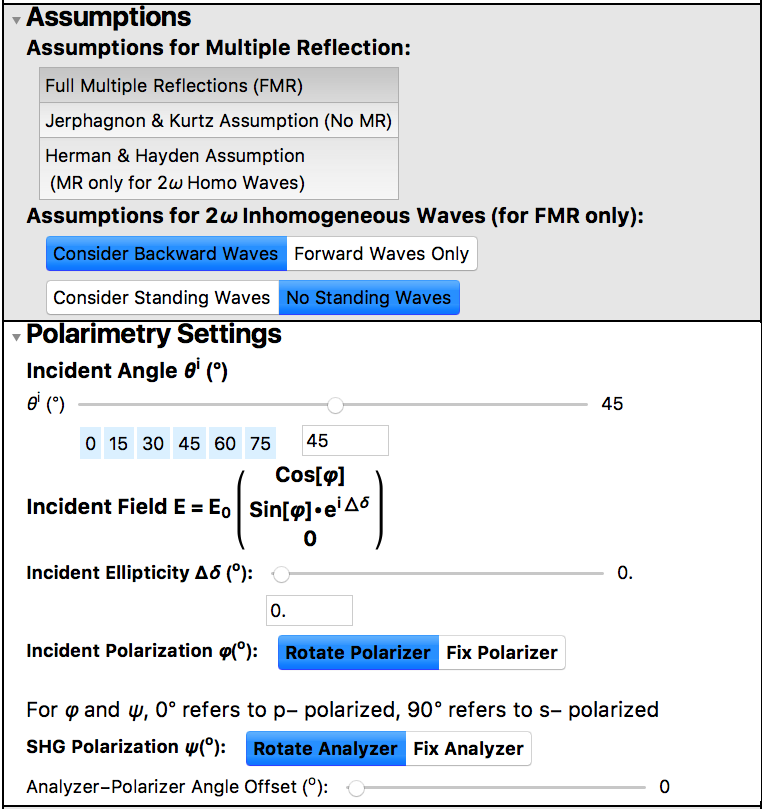
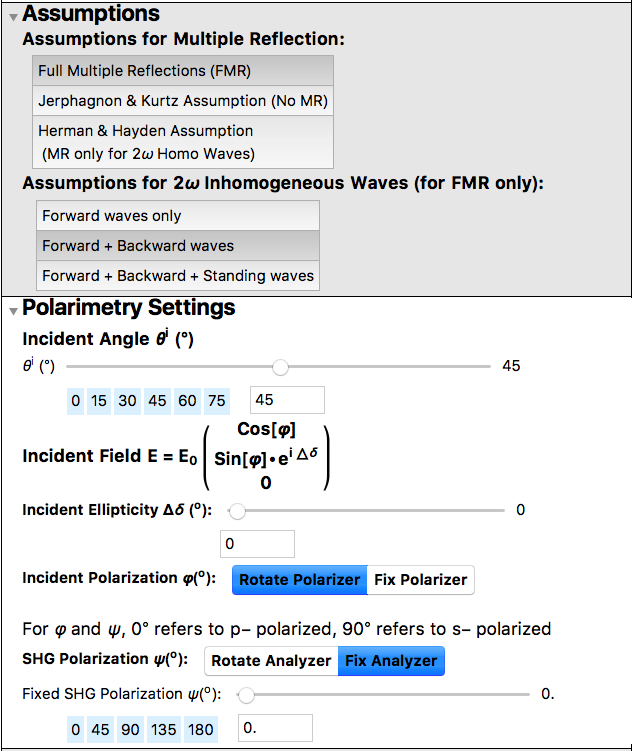
Based on v1.46

Changed region(s): [[0.0, 0.0, 1.0, 1.0], [0.8079, 0.6738, 0.8378, 0.735]]

diff --git a/docs/examples.md b/docs/examples.md
@@ -1,4 +1,4 @@
-Maker fringes
+## Maker fringes
 
 The following tutorial demonstrates the calculation of Maker fringes for a multilayer composed of Z-cut quartz with a gold layer deposited at the back of the slab. This example has been presented in the manuscript and highlights the importance of multiple reflections. 
 
@@ -43,7 +43,8 @@ We start by discussing the experimental details before proceeding to simulate th
 
     ![makerpattern](./img/makerpattern.png)
 
-One can now try changing the thickness of the slab by 1 $\mu$m to see the effect of the slab thickness on the Maker fringes pattern. To do this, go back to the `Set Material Properties` and click on `1` to modify the quartz layer. Change the thickness and click `Update`. Now click on `SHG Polarimetry` and click `Update` again to run the Maker fringes simulation for the new thickness.
+-  Click `Copy` to copy the underlying list to the clipboard. In a *Mathematica®* notebook, paste this and give this a name. This list can now be plotted using `ListPlot[]`.
+-  One can also try changing the thickness of the slab by $\pm$1 $\mu$m to see the effect of the slab thickness on the Maker fringes pattern. To do this, go back to the `Set Material Properties` and click on `1` to modify the quartz layer. Change the thickness and click `Update`. Now click on `SHG Polarimetry` and click `Update` again to run the Maker fringes simulation for the new thickness.
 
 ## SHG Polarimetry
 
@@ -93,7 +94,8 @@ The figure below the multilayer shows the relative orientation of the $Z_1 Z_2 Z
 - In the crystal orientation sub-panel, click `Use Crystal Physics Direction` and enter the following: $Z_1 = (0,0,1)$, $Z_2=(0,1,0)$ and $Z_3=(-1,0,0)$. 
 - Now click `Update` and go to `SHG Polarimetry` and click `Update` again to generate the polar plots under the same polarimetry settings. One observes that the SHG plots have changed.
 
-### Partial Analytical Expressions
+!!! note
+	While `Partial Analytical Expression` is best used for getting the SHG intensities when unknown thicknesses and/or SHG tensor elements are given, it can also be used to extract the expressions used for plotting the polar plots (for known thicknesses and SHG coefficients).
 
 - To visualize the results in the same plot, click `Partial Analytical Expression` and click `Update`. This gives the expressions of the SHG intensities. Copy $I^{T, 2 \omega}(\varphi, \psi)$ by clicking `Copy` next to it and assign it to a _Mathematica®_ function. 
 
@@ -103,4 +105,31 @@ The figure below the multilayer shows the relative orientation of the $Z_1 Z_2 Z
 
     ![comp](./img/comp.png)
 
-    One can also verify that the absence of the quartz layer results in the same SHG intensities for both the polarizations. To do this, go back to `Set Materials Properties` and remove the second layer and generate the expressions for the polar plot in the `Partial Analytical Expressions` tab. Repeat the same for the other direction of polarization (by changing the crystal physics coordinates) and save these as Mathematica functions and use `PolarPlot[]` to plot them.
+- One can also verify that the absence of the quartz layer results in the same SHG intensities for both the polarizations. To do this, go back to `Set Materials Properties` and remove the second layer and generate the expressions for the polar plot in the `Partial Analytical Expressions` tab. Repeat the same for the other direction of polarization (by changing the crystal physics coordinates) and save these as *Mathematica*® functions and use `PolarPlot[]` to plot them.
+
+## Partial Analytical Expressions
+
+This section explains how to obtain the reflected and transmitted SHG intensities analytically so that comparisions to experiments can be made to either determine the point group or unknown SHG coefficients by fitting. For this tutorial, we choose a material "similar" to quartz whose thickness is unknown. This material differs from quartz only with respect to it's SHG tensor elements, with $d_{11}=0.3$ and unknown $d_{14}$. Fundamental light of 800 nm is assumed to be incident at 45$^{\circ}$ on this material. The experimental setting is a rotating polarizer and fixed analyzer.
+
+- Open `SHAARP.ml_Vx.xx.nb` in _Mathematica®_. Evaluate the notebook by clicking `Evaluation > Evaluate Notebook`. Ensure that Dynamic Evaluation is enabled in _Mathematica®_. If everything goes right, the user guide should be visible in the notebook. In case the user guide is not seen, please re-evaluate the notebook or restart _Mathematica®_ and try again.
+- In the functionality sub-panel of the input panel on the left, click `Set Material Properties` to define the material.
+- Set the wavelength to 0.8 $\mu$m (800 nm) from the wavelength setting sub-panel.
+- In the material selection sub-panel, type 1 for the number of layers.  
+- Click on `1` to edit the first layer of the multilayer. Give it a suitable name, say "quartz". The crystal structure and optical properties of quartz are already pre-defined and saved as an example. To apply these properties, click on quartz (001) from the `Case Study` sub-panel.
+- In the thickness sub-panel, click `analytical h` to provide a variable thickness to the slab. The box should show `h1`.
+- In the SHG tensor sub-panel, click `analytical dij`. This will replace all the text boxes with unknown coefficients `d11m1` and `d14m1`. For the point group 32, there are only two independent SHG coefficients $d_{11}$ and $d_{14}$. Since it's given that $d_{11}=0.3$, manually enter this value in place of `d11m1`. This effectively leaves only one undetermined SHG coefficient $d_{14}$. One may also leave all the SHG coefficients as symbolic variables and finally substitute them with the numerical values. However, due to more unknowns in this case, it takes a longer time to calculate the analytical expressions.
+- Click `Update` to visualize this quartz slab.
+- In `Partial Analytical Expressions`, enter the assumption to use. In this case, full multiple reflections with backward waves and standing waves will be considered. 
+- Set the incident angle to $45^{\circ}$ and set the polarimetry configuration to rotate polarizer and fix analyzer. 
+- Click `Update` to generate the SHG intensities as a function of unknowns `h1` and `d14m1`.
+- Click `Copy` to copy any of the expressions and assign it to a function with variables $\varphi$, `h1` and `d14m1`. Use `Simplify[]` to simplify the expression. The final statement will look like `funcName[\[CurlyPhi]_, h1_, d14m1_] := Simplify[ *paste here* ]`.
+
+!!! note
+	$\varphi$ (`\[CurlyPhi]`) can be quickly entered in *Mathematica®* using the alias `Esc-j-Esc`.
+
+!!! note
+	In some cases, the derived expressions are too long to be displayed. In this case, the output panel displays "Too long to show". However, the user can still click `Copy` (`Export`)  to copy (export) the full expression.  
+
+-  This function can be used as a regular *Mathematica®* function.
+-  Click `Export` to save the expression in a `.mx` file. Give it a suitable name while saving. 
+-  To load the expression, use `Import[]`. For example, `funcName[\[CurlyPhi]_, h1_, d14m1_] := Import["equationRp.mx"]`.

diff --git a/docs/output.md b/docs/output.md
@@ -22,18 +22,22 @@ The output panel occupies the major part of the graphical interface. The content
 
 ![geometry](./img/geometry.png)
 
-The figure on the top-left presents a schematic of the multiple reflection of waves in the different layers. The red rays denote the waves at the fundamental frequency and the blue rays denote the second harmonic waves.
+-  The figure on the top-left presents a schematic of the multiple reflection of waves in the different layers. The red rays denote the waves at the fundamental frequency and the blue rays denote the second harmonic waves. The orange waves reflect the sub-assumption used for full multiple reflections. 
 
-The figure on the top-right shows the fundamental incident wavevector $k^{\omega}$ and the plane of incidence in the lab coordinate system (defined by $L_1 L_2 L_3$).
+
+-  The figure on the top-right shows the fundamental incident wavevector $k^{\omega}$ and the plane of incidence in the lab coordinate system (defined by $L_1 L_2 L_3$).
+
 
 ![pol](./img/pol.png)
 
-The ellipticity of the incident, reflected and transmitted beams are presented in the figure at the bottom-left corner while the measurement geometry is described in the figure on the bottom-right.
+-  The ellipticity of the incident, reflected and transmitted beams are presented in the figure at the bottom-left corner while the measurement geometry is described in the figure on the bottom-right.
+
 
 #### Polar Plots
 ![polar](./img/polar.png)
 
-The sub-panel shows the polar plots of the reflected and transmitted intensities of the second harmonic wave as a function of the incident polarization angle $\varphi$. $\psi$ refers to the analyzer angle.
+-  The sub-panel shows the polar plots of the reflected and transmitted intensities of the second harmonic wave as a function of the incident polarization angle $\varphi$. $\psi$ refers to the analyzer angle. 
+-  The assumption used for the calculation is also mentioned. 
 
 #### Fresnel Coefficients Figure
 
@@ -42,7 +46,8 @@ The sub-panel shows the polar plots of the reflected and transmitted intensities
 
 ![fresnel_op](./img/fresnel_op.png)
 
-A plot of the calculated Fresnel coefficients in steps of the provided step size is calculated and plotted.  
+-  A plot of the calculated Fresnel coefficients in steps of the provided step size is calculated and plotted.  
+-  Buttons are also provided to copy the underlying data to compare with experimental values. The values are copied to the clipboard  as a list and may be pasted in a *Mathematica®* notebook.
 
 #### Maker Fringes Figure
 
@@ -51,7 +56,9 @@ A plot of the calculated Fresnel coefficients in steps of the provided step size
 
 ![makerfringes_op](./img/makerfringes_op.png)
 
-Plots of the calculated SHG intensity $I^{2 \omega}(\theta^i, \varphi, \psi)$ and $I^{2 \omega}(\theta^i, \varphi, \psi+90^{\circ})$ as a function of the incidence angle $\theta^i$ is calculated for fixed incident polarization angle $\varphi$ and fixed analyzer angle $\psi$ as provided in the `Maker Fringes Collection Settings` in the input panel. The assumption used for the calculation is also mentioned. 
+-  Plots of the calculated SHG intensity $I^{2 \omega}(\theta^i, \varphi, \psi)$ and $I^{2 \omega}(\theta^i, \varphi, \psi+90^{\circ})$ as a function of the incidence angle $\theta^i$ is calculated for fixed incident polarization angle $\varphi$ and fixed analyzer angle $\psi$ as provided in the `Maker Fringes Collection Settings` in the input panel. 
+-  The assumption used for the calculation is also mentioned. 
+-  Buttons are also provided to copy the data to compare with experiments. The values are copied to the clipboard  as a list and may be pasted in a *Mathematica®* notebook.
 
 ### Partial Analytical Expressions
 
@@ -60,9 +67,8 @@ Plots of the calculated SHG intensity $I^{2 \omega}(\theta^i, \varphi, \psi)$ an
 -  This panel contains the partial analytical expressions of the SHG reflectance and transmittance as a function of the polarizer angle $\varphi$ and the unknown parameters (thickness and SHG tensor) as provided in the `Set Material Properties` tab in the input panel.
 -  One may copy the derived analytical expressions by clicking on the `Copy` button or save the expression to a `.mx` file by clicking `Export`.
 
-
 !!! note
-	In some cases, the derived expressions are too long to be displayed. In this case, the user can still click `Copy` to copy the full expression which may be pasted in a Mathematica® notebook.
+	In some cases, the derived expressions are too long to be displayed. In this case, the user can still click `Copy` to copy the full expression which may be pasted in a *Mathematica®* notebook.
 
 !!! note
 	The derived expressions are unsimplified; use `Simplify[]` or `FullSimplify[]`to simplify these expressions after copying.

diff --git a/docs/input.md b/docs/input.md
@@ -17,7 +17,7 @@ This subpanel allows the user to provide the material properties and choose what
 -  The `2D(3D) Schematics` (available only when `SHG Simulation` or `Set Material Properties` is selected) shows the multilayer in real space as an interactive 2D(3D) figure on the output panel. 
 
 !!! note
-	 Important Note: Please click on any of the `Update` buttons after specifying the inputs for the changes to take place on the output panel. This includes any changes to the input parameters on any of the input sub-panels.
+	 Please click on any of the `Update` buttons after specifying the inputs for the changes to take place on the output panel. This includes any changes to the input parameters on any of the input sub-panels.
 
 -  `Partial Analytical Expressions` derives the SHG reflectance and transmittance in terms of unknown layer thicknesses and SHG tensor elements provided as symbolic variables in the `Set Material Properties` tab.
 
@@ -93,7 +93,7 @@ Click `Update` to visualize the crystal orientation of the selected layer with r
 ![shgtensor](./img/shgtensor.png)
 
 -  Enter the components of the SHG tensor $d_{ij}$ (expressed in Voigt notation) in units of pm/V. Note that constraints due to the point group symmetry are automatically imposed on the SHG tensor. 
--  Click `analytical dij` if interested in partial analytical expressions involving unknown SHG tensor components. The components are labelled as `dij` by default. The values are assumed to be in units of pm/V. 
+-  Click `analytical dij` if interested in partial analytical expressions involving unknown SHG tensor components. The components are labelled as `dijmk` by default (here, `k` refers to the layer number). The values are assumed to be in units of pm/V. 
 -  In the case where certain components of the SHG tensor is known, click `analytical dij` and manually enter the known components. In this case, the partial analytical expression only involves the unknown symbolic components. 
 
 !!! note
@@ -175,6 +175,6 @@ Note: This sub-panel is visible only if `Generate Maker Fringes Plot` is checked
 
 ![partialanal](./img/partialanal.png)
 
--  Check the assumptions to be applied while solving for the reflection and transmission coefficients from the `Assumptions` sub-panel.
+-  Select the assumptions to be applied while solving for the reflection and transmission coefficients from the `Assumptions` sub-panel.
 -  In the `Polarimetry Settings` sub-panel, enter the incident angle and ellipticity in degree. Depending on the requirement, the polarizer and analyzer angles may be entered. See `Polarimetry Settings` under `SHG Simulation` for more details.
 
